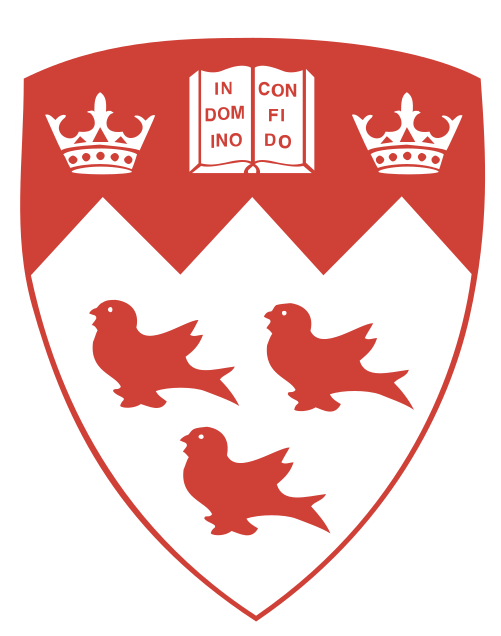
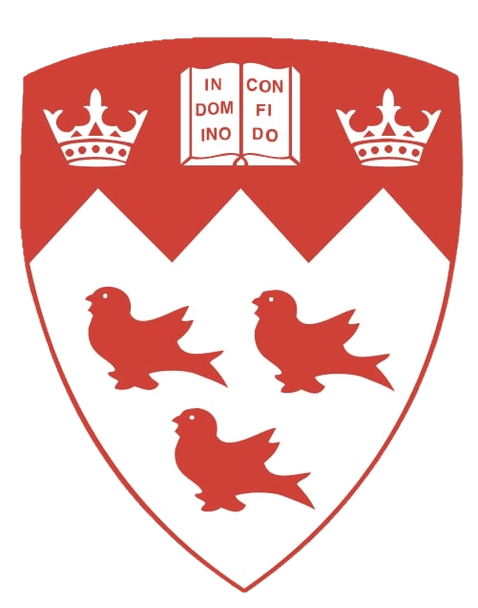
convert imgs to jpg for speed

diff --git a/index.html b/index.html
@@ -152,7 +152,7 @@
                             </div>
                             <h3 class="company">Software Developer Intern</h3>
                             <p class="designation text-uppercase">
-                                <img class="designation-logo" src="assets/img/experience/societe-generale.png">
+                                <img class="designation-logo" src="assets/img/experience/societe-generale.jpg">
                                 <span>Société Générale</span>
                             </p>
                             <p class="description">
@@ -186,7 +186,7 @@
                             </div>
                             <h3 class="company">Competitive Gymnastics Coach</h3>
                             <p class="designation text-uppercase">
-                                <img src="assets/img/experience/wimgym.png" style="width: 3%; margin-right: .7rem;">
+                                <img src="assets/img/experience/wimgym.jpg" style="width: 3%; margin-right: .7rem;">
                                 <span>Wimgym Gymnastics Club</span>
                             </p>
                             <p class="description">
@@ -212,7 +212,7 @@
                             <div class="portfolio-hover">
                                 <div class="portfolio-hover-content"><i class="fas fa-plus fa-3x"></i></div>
                             </div>
-                            <img class="img-fluid portfolio-img" src="assets/img/portfolio/dscribe-template.PNG" alt="..." />
+                            <img class="img-fluid portfolio-img" src="assets/img/portfolio/dscribe-template.jpg" alt="..." />
                         </a>
                         <div class="portfolio-caption">
                             <div class="portfolio-caption-heading">DScribe</div>
@@ -227,7 +227,7 @@
                             <div class="portfolio-hover">
                                 <div class="portfolio-hover-content"><i class="fas fa-plus fa-3x"></i></div>
                             </div>
-                            <img class="img-fluid portfolio-img" src="assets/img/portfolio/santropol-roulant.PNG" alt="..." />
+                            <img class="img-fluid portfolio-img" src="assets/img/portfolio/santropol-roulant.jpg" alt="..." />
                         </a>
                         <div class="portfolio-caption">
                             <div class="portfolio-caption-heading">Digital Transformation</div>
@@ -241,7 +241,7 @@
                             <div class="portfolio-hover">
                                 <div class="portfolio-hover-content"><i class="fas fa-plus fa-3x"></i></div>
                             </div>
-                            <img class="img-fluid portfolio-img" src="assets/img/portfolio/impact200.PNG" alt="..." />
+                            <img class="img-fluid portfolio-img" src="assets/img/portfolio/impact200.jpg" alt="..." />
                         </a>
                         <div class="portfolio-caption">
                             <div class="portfolio-caption-heading">Place du Marché</div>
@@ -256,7 +256,7 @@
                             <div class="portfolio-hover">
                                 <div class="portfolio-hover-content"><i class="fas fa-plus fa-3x"></i></div>
                             </div>
-                            <img class="img-fluid portfolio-img" src="assets/img/portfolio/coding4kids.PNG" alt="..." />
+                            <img class="img-fluid portfolio-img" src="assets/img/portfolio/coding4kids.jpg" alt="..." />
                         </a>
                         <div class="portfolio-caption">
                             <div class="portfolio-caption-heading">Coding4Kids</div>
@@ -271,7 +271,7 @@
                             <div class="portfolio-hover">
                                 <div class="portfolio-hover-content"><i class="fas fa-plus fa-3x"></i></div>
                             </div>
-                            <img class="img-fluid portfolio-img" src="assets/img/portfolio/movie-recommender.png" alt="..." />
+                            <img class="img-fluid portfolio-img" src="assets/img/portfolio/movie-recommender.jpg" alt="..." />
                         </a>
                         <div class="portfolio-caption">
                             <div class="portfolio-caption-heading">Recommendation System</div>
@@ -337,7 +337,7 @@
                                 <!-- Project details-->
                                 <h2 class="text-uppercase">DScribe</h2>
                                 <p class="item-intro text-muted">Generating consistent unit tests & documentation</p>
-                                <img class="modal-img d-block mx-auto" src="assets/img/portfolio/dscribe.PNG" alt="..." />
+                                <img class="modal-img d-block mx-auto" src="assets/img/portfolio/dscribe.jpg" alt="..." />
                                 <p>Co-developed <a href="https://github.com/prmr/DScribe">DScribe</a>, a novel template-based approach to co-generate unit tests and documentation. Linking unit tests to documentation ensures both are consistent and up to date as outdated documentation is immedatley flagged by the corresponding failing tests.</p>
                             </div>
                         </div>
@@ -358,7 +358,7 @@
                                 <!-- Project details-->
                                 <h2 class="text-uppercase">Santropol Roulant</h2>
                                 <p class="item-intro text-muted">Boosting community involvement through digital transformation</p>
-                                <img class="modal-img d-block mx-auto" src="assets/img/portfolio/mcfac-team.png" alt="..." />
+                                <img class="modal-img d-block mx-auto" src="assets/img/portfolio/mcfac-team.jpg" alt="..." />
                                 <p>As <a href="https://www.linkedin.com/company/mcfac/about/">McGill Food Analytics Club</a> members, we developed a mobile app to faciliate volunteer sign-up and a volunteer management system to streamline staff operations for <a href="https://santropolroulant.org/en/">Santropol Roulant</a>, a food security NGO. <a href="https://reporter.mcgill.ca/igniting-data-analytics-for-community-impact/">Learn more.</a></p>
                             </div>
                         </div>
@@ -379,7 +379,7 @@
                                 <!-- Project details-->
                                 <h2 class="text-uppercase">Place du Marché</h2>
                                 <p class="item-intro text-muted">Connecting communities to improve food security</p>
-                                <img class="modal-img d-block mx-auto" src="assets/img/portfolio/place-du-marche.png" alt="..." />
+                                <img class="modal-img d-block mx-auto" src="assets/img/portfolio/place-du-marche.jpg" alt="..." />
                                 <p>As <a href="https://200.mcgill.ca/impact200-bicentennial-student-sustainability-challenge/">McGill Impact200</a> finalists, we developed <a href="https://www.myplacedumarche.com/">Place du Marché</a>, an interactive website that centralizes information on various Montreal food security organizations. The goal was to promote local community service opportunities and facilitates the matching process between food organizations and volunteers.</p>
                             </div>
                         </div>
@@ -421,7 +421,7 @@
                                 <!-- Project details-->
                                 <h2 class="text-uppercase">Movie Recommender</h2>
                                 <p class="item-intro text-muted">A smart & scalable movie recommendation system</p>
-                                <img class="modal-img img-fluid d-block mx-auto" src="assets/img/portfolio/movie-recommender-wide.png" alt="..." />
+                                <img class="modal-img img-fluid d-block mx-auto" src="assets/img/portfolio/movie-recommender-wide.jpg" alt="..." />
                                 <p>
                                     As a class project, developed a <a href="https://github.com/COMP598Fall2020/Team1_RS">smart & scalable movie recommendation system</a> that continously improves via a feedback loop. The technology stack includes: Python, FastAPI, Docker Compose, MongoDB, Prometheus, Grafana, and GitActions.
                                 </p>
